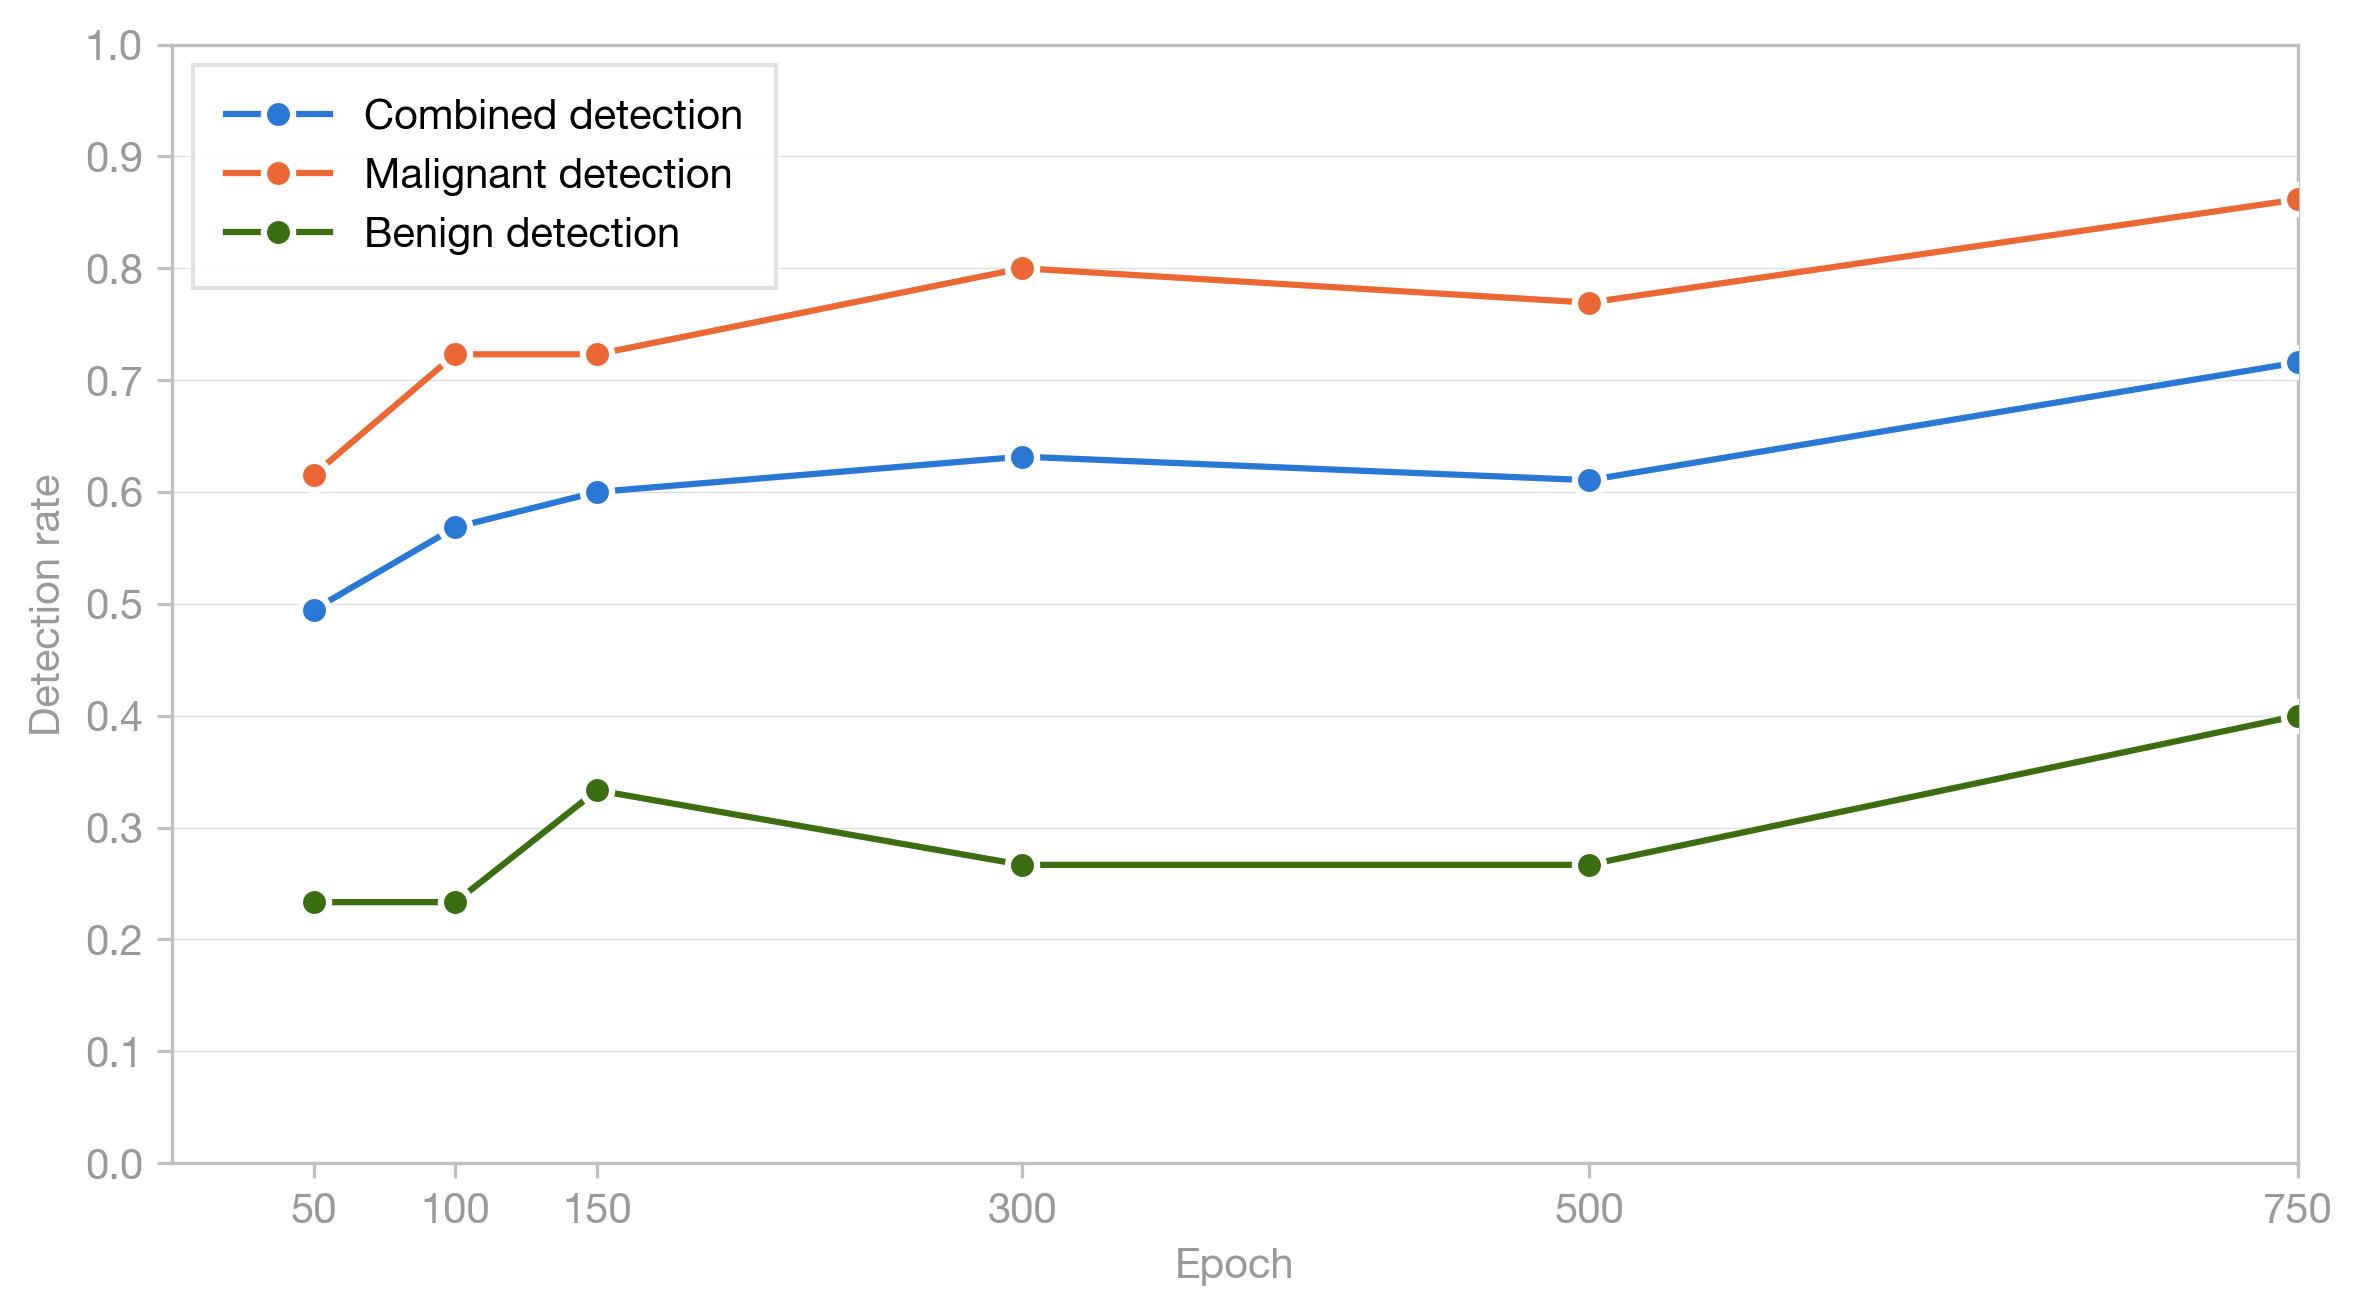
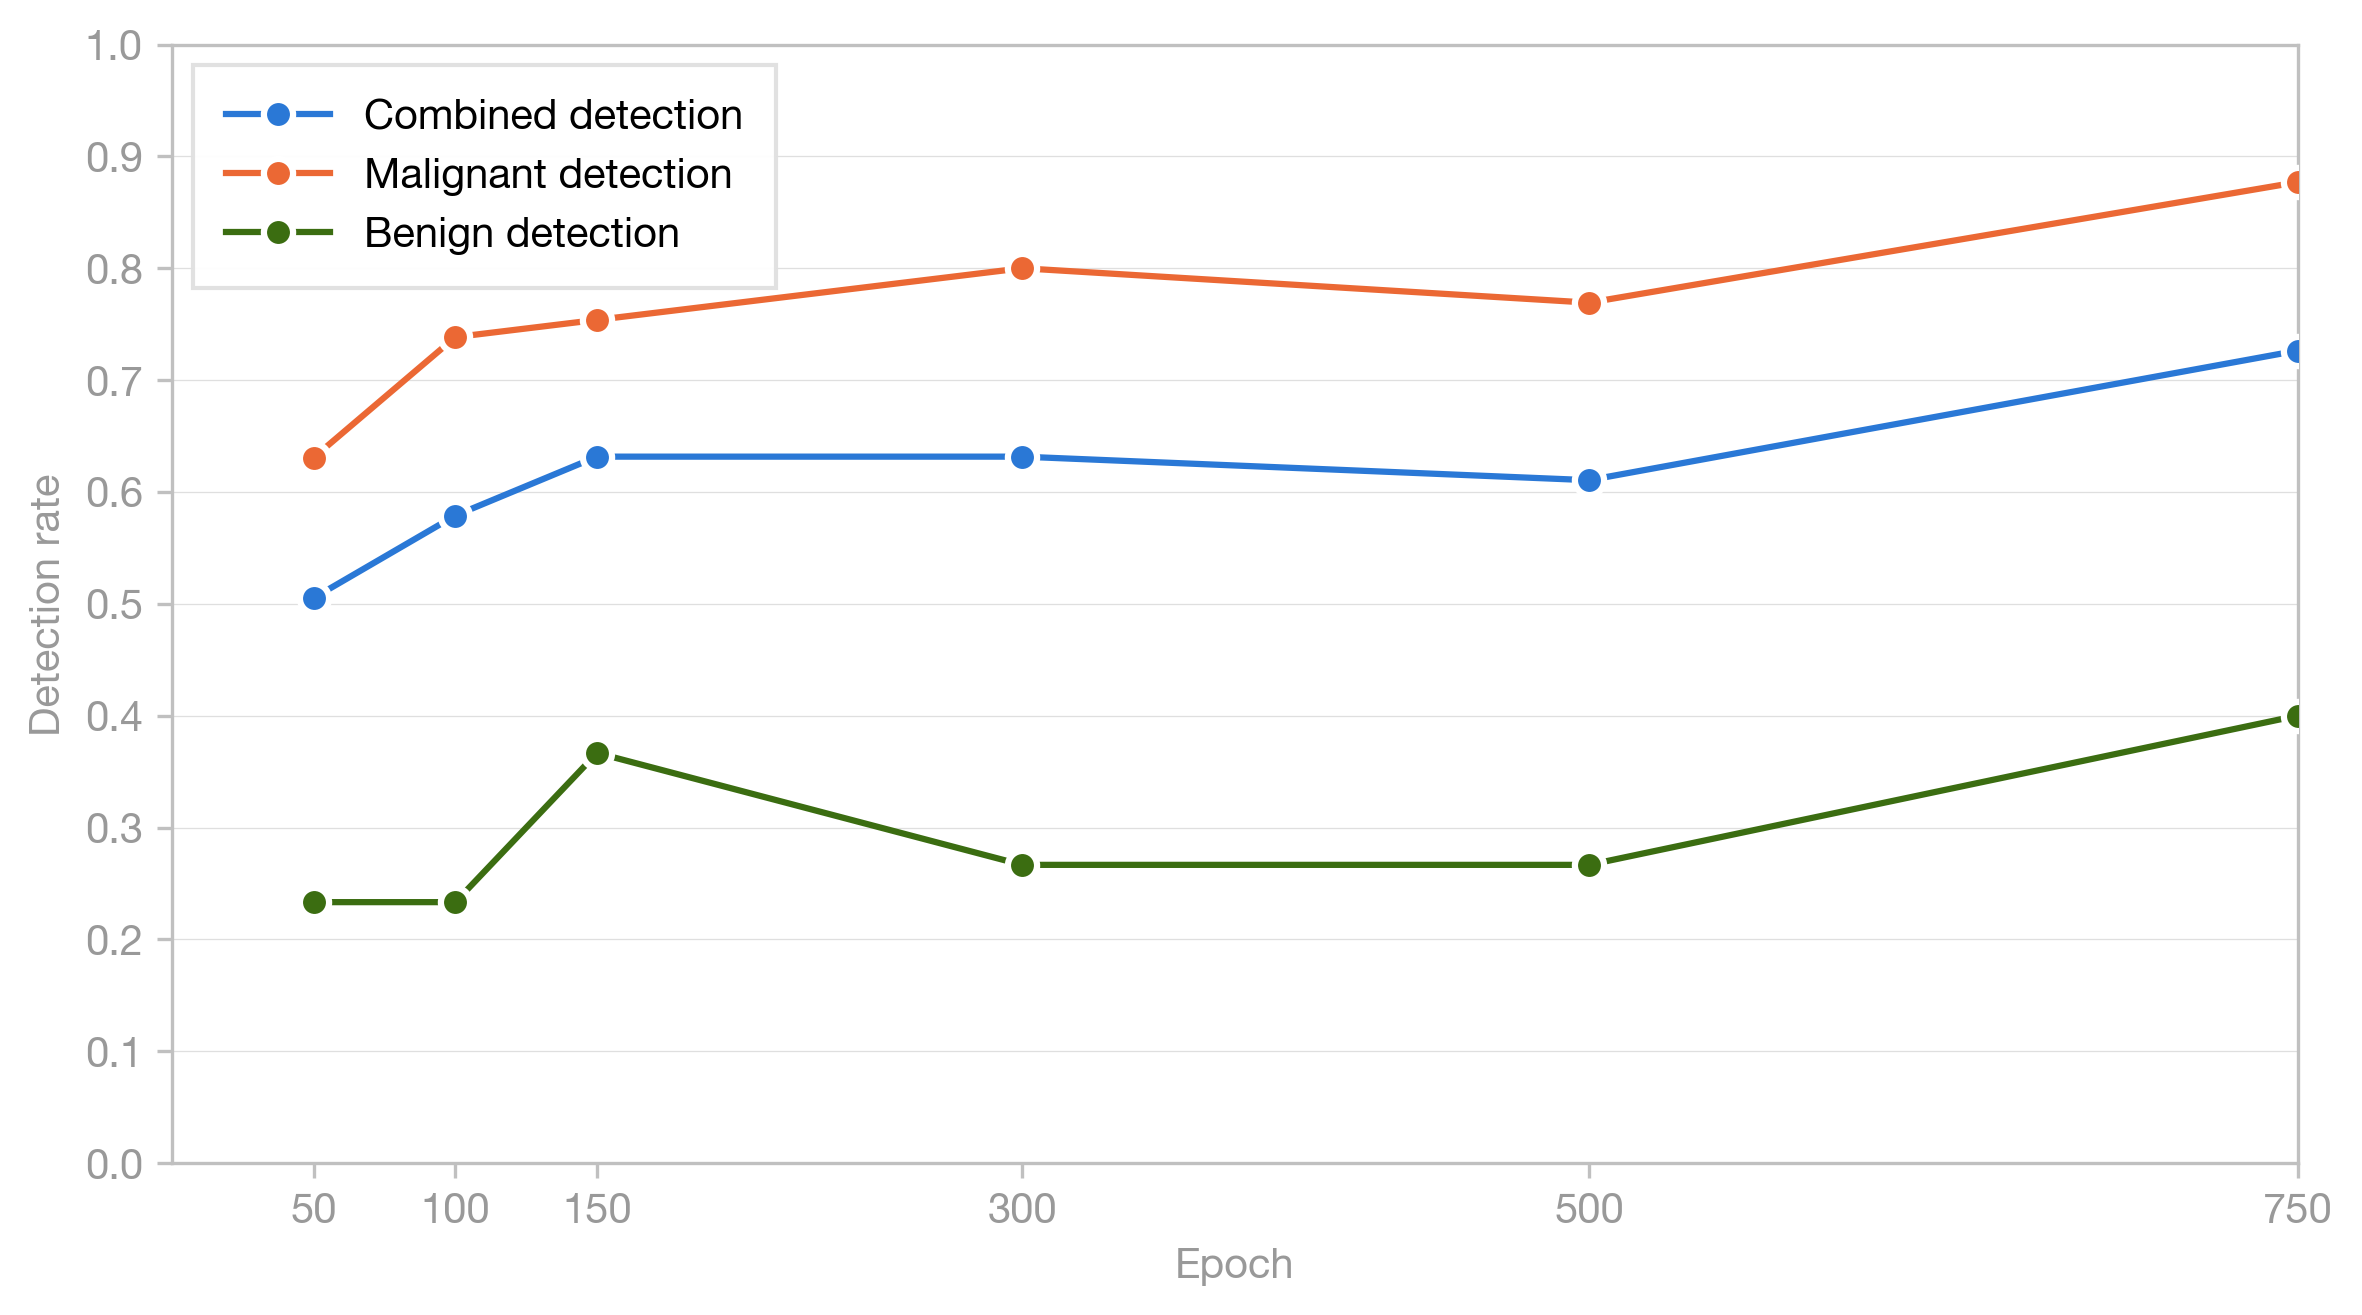
Regenerate epoch convergence analysis for new dataset snapshot

diff --git a/analysis/epoch_convergence/epoch_convergence_by_overlap_detection/epoch_convergence_by_overlap_detection_iou_05.md b/analysis/epoch_convergence/epoch_convergence_by_overlap_detection/epoch_convergence_by_overlap_detection_iou_05.md
@@ -10,23 +10,23 @@ No error bars (single seed).
 
 | Epoch | Detection | Normal cases FP rate |
 |------:|----------:|-------------------:|
-| 50 | 0.495 | 0.000 |
-| 100 | 0.568 | 0.000 |
-| 150 | 0.600 | 0.133 |
+| 50 | 0.505 | 0.000 |
+| 100 | 0.579 | 0.000 |
+| 150 | 0.632 | 0.133 |
 | 300 | 0.632 | 0.200 |
 | 500 | 0.611 | 0.133 |
-| 750 | 0.716 | 0.067 |
+| 750 | 0.726 | 0.067 |
 
 ## Malignant masses
 
 | Epoch | Detection | Normal cases FP rate |
 |------:|----------:|-------------------:|
-| 50 | 0.615 | 0.000 |
-| 100 | 0.723 | 0.000 |
-| 150 | 0.723 | 0.133 |
+| 50 | 0.631 | 0.000 |
+| 100 | 0.738 | 0.000 |
+| 150 | 0.754 | 0.133 |
 | 300 | 0.800 | 0.200 |
 | 500 | 0.769 | 0.133 |
-| 750 | 0.862 | 0.067 |
+| 750 | 0.877 | 0.067 |
 
 ## Benign masses
 
@@ -34,7 +34,7 @@ No error bars (single seed).
 |------:|----------:|-------------------:|
 | 50 | 0.233 | 0.000 |
 | 100 | 0.233 | 0.000 |
-| 150 | 0.333 | 0.133 |
+| 150 | 0.367 | 0.133 |
 | 300 | 0.267 | 0.200 |
 | 500 | 0.267 | 0.133 |
 | 750 | 0.400 | 0.067 |

diff --git a/analysis/epoch_convergence/epoch_convergence_by_overlap_detection/epoch_convergence_by_overlap_detection_iou_02.md b/analysis/epoch_convergence/epoch_convergence_by_overlap_detection/epoch_convergence_by_overlap_detection_iou_02.md
@@ -12,9 +12,9 @@ No error bars (single seed).
 |------:|----------:|-------------------:|
 | 50 | 0.621 | 0.000 |
 | 100 | 0.737 | 0.000 |
-| 150 | 0.768 | 0.133 |
+| 150 | 0.758 | 0.133 |
 | 300 | 0.800 | 0.200 |
-| 500 | 0.695 | 0.133 |
+| 500 | 0.716 | 0.133 |
 | 750 | 0.821 | 0.067 |
 
 ## Malignant masses
@@ -25,7 +25,7 @@ No error bars (single seed).
 | 100 | 0.908 | 0.000 |
 | 150 | 0.923 | 0.133 |
 | 300 | 0.954 | 0.200 |
-| 500 | 0.877 | 0.133 |
+| 500 | 0.892 | 0.133 |
 | 750 | 0.938 | 0.067 |
 
 ## Benign masses
@@ -34,7 +34,7 @@ No error bars (single seed).
 |------:|----------:|-------------------:|
 | 50 | 0.233 | 0.000 |
 | 100 | 0.367 | 0.000 |
-| 150 | 0.433 | 0.133 |
+| 150 | 0.400 | 0.133 |
 | 300 | 0.467 | 0.200 |
-| 500 | 0.300 | 0.133 |
+| 500 | 0.333 | 0.133 |
 | 750 | 0.567 | 0.067 |
